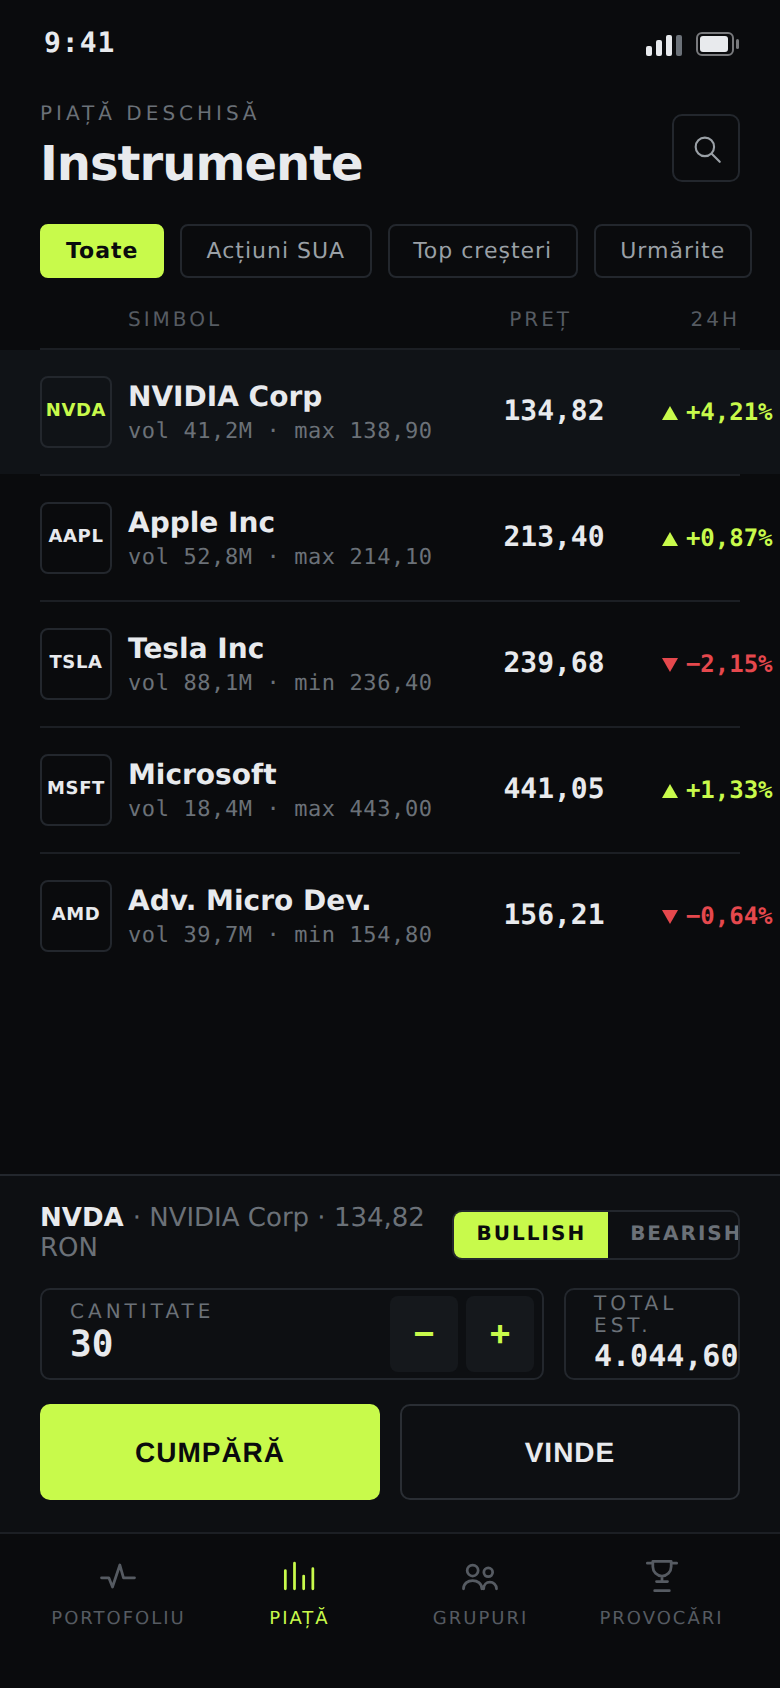
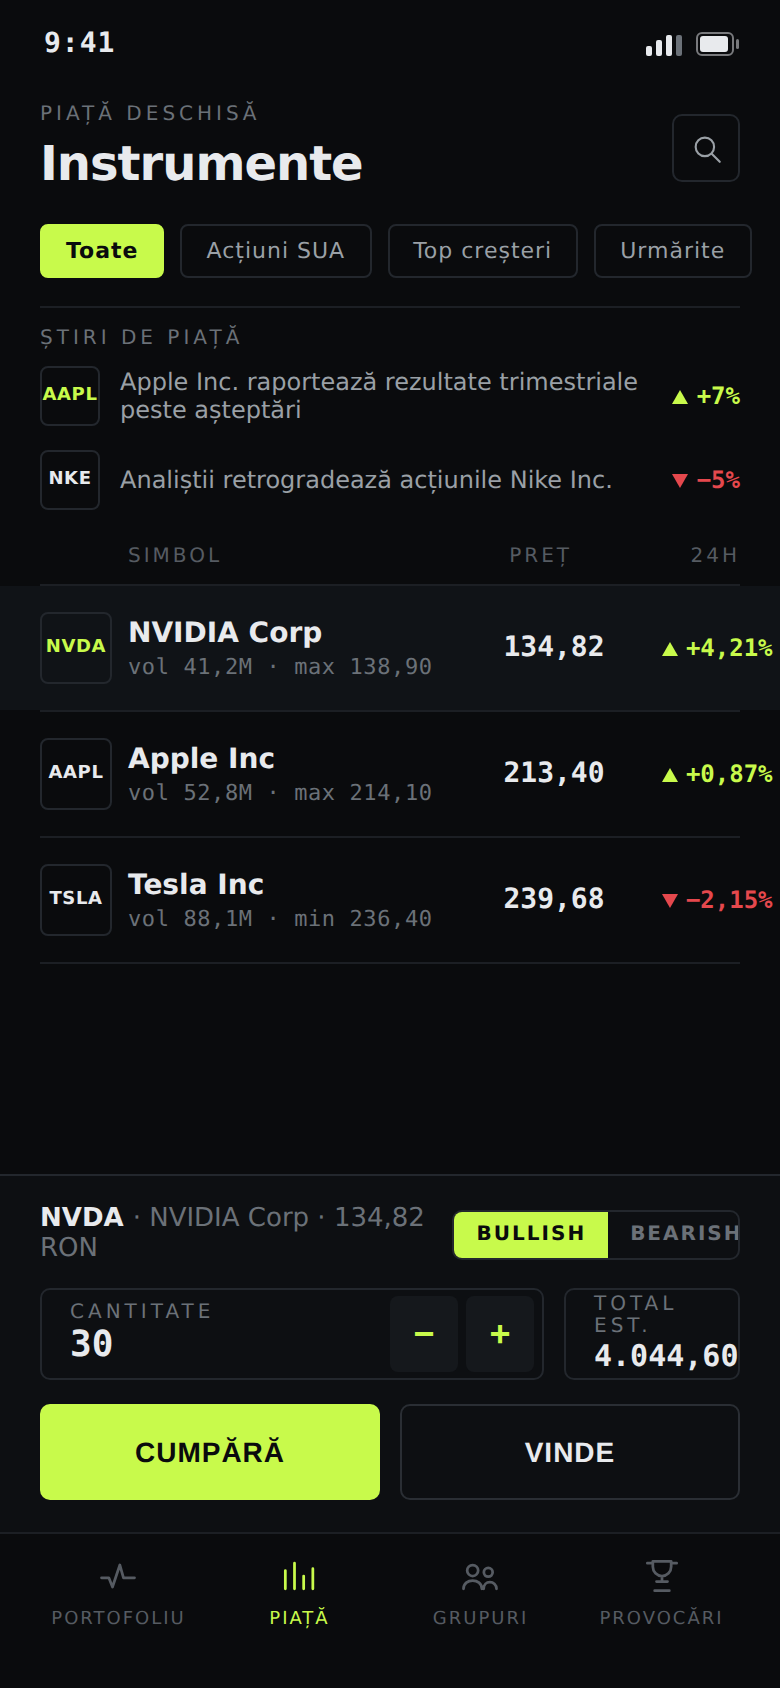
Mobil: secțiune de știri în Piață + listă derulabilă
- Client: endpoint /api/market/news + tip NewsItem.
- Piață: secțiune „Știri de piață" (simbol + impact lime/roșu), actualizată
  live la mesajul WebSocket NEWS; lista de instrumente devine derulabilă
  (16 stocuri) cu modulul de tranzacționare fixat jos.
- docs/design: macheta de piață actualizată cu știri.

Typecheck mobil curat.

Claude-Session: https://claude.ai/code/session_01BDYxPizJSdVhuMBdQVugtS

diff --git a/mobile/app/(tabs)/market.tsx b/mobile/app/(tabs)/market.tsx
@@ -1,9 +1,9 @@
 import React, { useCallback, useState } from 'react';
-import { Alert, Pressable, Text, View } from 'react-native';
+import { Alert, Pressable, ScrollView, Text, View } from 'react-native';
 import { useFocusEffect } from 'expo-router';
 import { Screen, Label, H1, Mono, Hairline, SymbolTile, Button, Segmented, Loading } from '../../src/components/ui';
 import { Caret, IconSearch } from '../../src/components/icons';
-import { endpoints, ApiError, type Instrument, type SentimentValue } from '../../src/api/client';
+import { endpoints, ApiError, type Instrument, type SentimentValue, type NewsItem } from '../../src/api/client';
 import { useRealtime } from '../../src/realtime/useRealtime';
 import { theme, formatMoney, gainColor } from '../../src/theme';
 
@@ -11,6 +11,7 @@ export default function MarketScreen() {
   const c = theme.colors;
   const [instruments, setInstruments] = useState<Instrument[] | null>(null);
   const [prev, setPrev] = useState<Record<string, number>>({});
+  const [news, setNews] = useState<NewsItem[]>([]);
   const [selected, setSelected] = useState<Instrument | null>(null);
   const [qty, setQty] = useState(10);
   const [stance, setStance] = useState<SentimentValue>('BULLISH');
@@ -18,9 +19,10 @@ export default function MarketScreen() {
   const [credits, setCredits] = useState<number | null>(null);
 
   const load = useCallback(async () => {
-    const [{ instruments }, st] = await Promise.all([endpoints.instruments(), endpoints.streak()]);
+    const [{ instruments }, st, nw] = await Promise.all([endpoints.instruments(), endpoints.streak(), endpoints.news()]);
     setInstruments(instruments);
     setCredits(st.tradeCredits);
+    setNews(nw.news);
     setPrev((p) => {
       const next = { ...p };
       for (const i of instruments) if (next[i.symbol] === undefined) next[i.symbol] = i.currentPrice;
@@ -30,6 +32,11 @@ export default function MarketScreen() {
 
   useRealtime({
     onMessage: (msg) => {
+      if (msg.type === 'NEWS') {
+        const n = msg.payload as { symbol: string | null; headline: string; impact: number };
+        setNews((cur) => [{ id: `${Date.now()}`, createdAt: new Date().toISOString(), ...n }, ...cur].slice(0, 30));
+        return;
+      }
       if (msg.type !== 'PRICE_UPDATE') return;
       const changes = msg.payload as Array<{ symbol: string; prev: number; next: number }>;
       const map = new Map(changes.map((x) => [x.symbol, x]));
@@ -77,6 +84,26 @@ export default function MarketScreen() {
           </View>
         </View>
 
+        {/* news strip */}
+        {news.length > 0 && (
+          <>
+            <Hairline inset={20} />
+            <View style={{ paddingHorizontal: 20, paddingTop: 10, paddingBottom: 4 }}>
+              <Label>Știri de piață</Label>
+            </View>
+            {news.slice(0, 3).map((n) => (
+              <View key={n.id} style={{ flexDirection: 'row', alignItems: 'center', gap: 10, paddingHorizontal: 20, paddingVertical: 7 }}>
+                {n.symbol ? <SymbolTile symbol={n.symbol} accent={n.impact >= 0} size={30} /> : null}
+                <Text numberOfLines={2} style={{ flex: 1, color: c.muted2, fontSize: 12 }}>{n.headline}</Text>
+                <View style={{ flexDirection: 'row', alignItems: 'center', gap: 3 }}>
+                  <Caret up={n.impact >= 0} color={gainColor(n.impact)} />
+                  <Mono style={{ color: gainColor(n.impact), fontSize: 12, fontWeight: '700' }}>{(n.impact >= 0 ? '+' : '') + (n.impact * 100).toFixed(0)}%</Mono>
+                </View>
+              </View>
+            ))}
+          </>
+        )}
+
         {/* column head */}
         <View style={{ flexDirection: 'row', paddingHorizontal: 20, paddingVertical: 8 }}>
           <Text style={{ flex: 1, color: c.faint, fontSize: 10, letterSpacing: 1.5, textTransform: 'uppercase' }}>Simbol</Text>
@@ -85,7 +112,7 @@ export default function MarketScreen() {
         </View>
         <Hairline inset={20} />
 
-        <View style={{ flex: 1 }}>
+        <ScrollView style={{ flex: 1 }} showsVerticalScrollIndicator={false}>
           {instruments.map((i) => {
             const base = prev[i.symbol] ?? i.currentPrice;
             const chg = base ? (i.currentPrice - base) / base : 0;
@@ -110,7 +137,7 @@ export default function MarketScreen() {
               </View>
             );
           })}
-        </View>
+        </ScrollView>
 
         {/* trade module */}
         {selected && (

diff --git a/mobile/src/api/client.ts b/mobile/src/api/client.ts
@@ -97,6 +97,14 @@ export interface CheckInResult {
   earnedFreeze?: boolean;
 }
 
+export interface NewsItem {
+  id: string;
+  symbol: string | null;
+  headline: string;
+  impact: number;
+  createdAt: string;
+}
+
 export type SentimentValue = 'BULLISH' | 'BEARISH';
 
 export interface GroupSentiment {
@@ -255,4 +263,6 @@ export const endpoints = {
     api.post<{ symbol: string; myValue: SentimentValue | null }>('/api/sentiment', { symbol, value }),
   groupSentiment: (groupId: string) =>
     api.get<{ sentiment: GroupSentiment[] }>(`/api/groups/${groupId}/sentiment`),
+
+  news: () => api.get<{ news: NewsItem[] }>('/api/market/news'),
 };